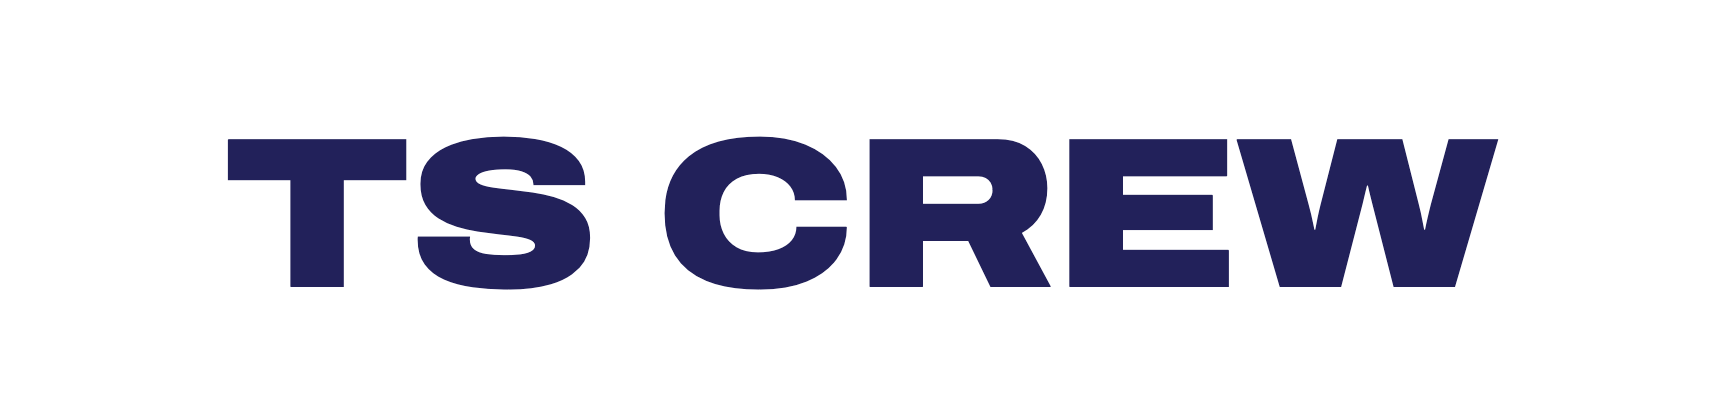
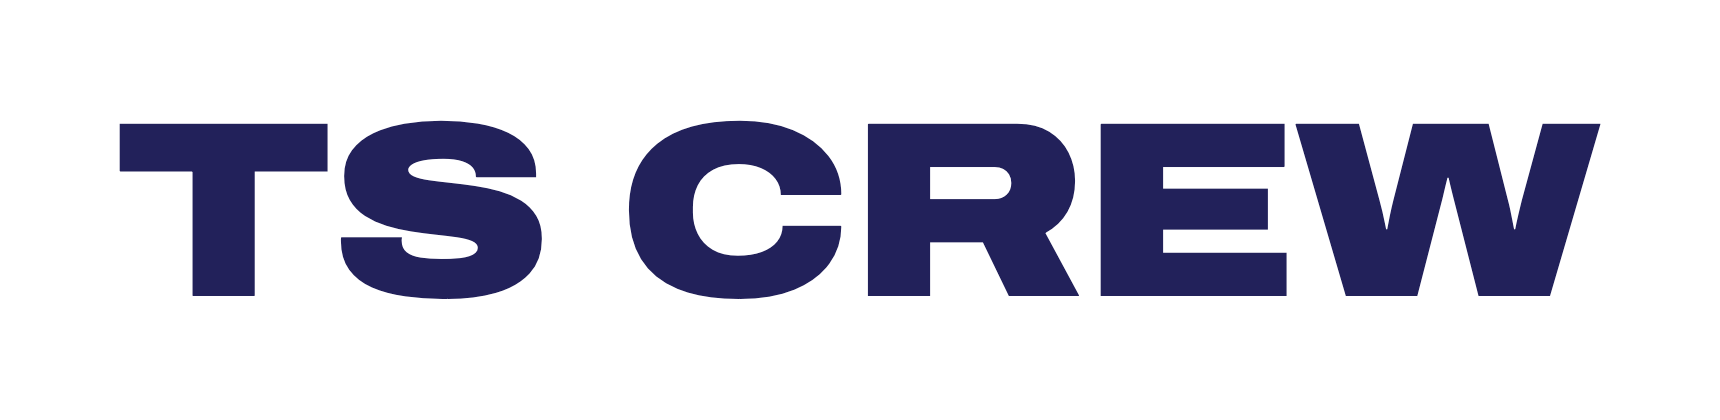
로고 글꼴 후보 A~K 비교표 한 장으로 통합, 후보 11종 개별 파일 같은 기준으로 재생성

Changed region(s): [[0.0616, 0.2786, 0.9552, 0.7119]]

diff --git a/docs/brand/wordmark-options-source.html b/docs/brand/wordmark-options-source.html
@@ -1,37 +1,33 @@
 <!doctype html><html><head><meta charset="utf-8">
-<link href="https://fonts.googleapis.com/css2?family=Michroma&family=Russo+One&family=Kanit:ital,wght@1,900&family=Lexend+Zetta:wght@800&family=Teko:wght@700&display=block" rel="stylesheet">
-<style>
-html, body { margin: 0; background: transparent; }
-body { width: 1720px; height: 420px; display: flex; align-items: center; justify-content: center; overflow: hidden; }
-.t { line-height: 1; color: #22215a; white-space: nowrap; font-size: 200px; visibility: hidden; }
-.G { font-family: Michroma; letter-spacing: -0.02em; }
-.H { font-family: "Russo One"; letter-spacing: 0; }
-.I { font-family: Kanit; font-weight: 900; font-style: italic; letter-spacing: -0.01em; }
-.J { font-family: "Lexend Zetta"; font-weight: 800; letter-spacing: -0.06em; }
-.K { font-family: Teko; font-weight: 700; letter-spacing: 0.01em; }
-</style></head><body>
+<link href="https://fonts.googleapis.com/css2?family=Archivo:wdth,wght@125,900&family=Big+Shoulders+Stencil+Display:wght@900&family=Unbounded:wght@800&family=Saira:ital,wdth,wght@1,125,800&family=Bricolage+Grotesque:opsz,wdth,wght@96,75,800&family=Syne:wght@800&family=Michroma&family=Russo+One&family=Kanit:ital,wght@1,900&family=Lexend+Zetta:wght@800&family=Teko:wght@700&display=block" rel="stylesheet">
+<style>html,body{margin:0;background:transparent}canvas{display:block}</style></head><body>
 <script>
-const f = new URLSearchParams(location.search).get('f');
-document.body.innerHTML = '<div class="t ' + f + '">TS CREW</div>';
-const t = document.querySelector('.t');
-document.fonts.ready.then(() => {
-  // 실제 잉크(글자 모양) 크기를 재서 폭 1480 / 높이 230 안에 맞추고 정확히 가운데로
-  const cs = getComputedStyle(t);
-  const ctx = document.createElement('canvas').getContext('2d');
-  const measure = (size) => {
-    ctx.font = cs.fontStyle + ' ' + cs.fontWeight + ' ' + size + 'px ' + cs.fontFamily;
-    ctx.letterSpacing = ((parseFloat(cs.letterSpacing) || 0) / 200 * size) + 'px';
-    const m = ctx.measureText('TS CREW');
-    return { w: m.actualBoundingBoxLeft + m.actualBoundingBoxRight, h: m.actualBoundingBoxAscent + m.actualBoundingBoxDescent, left: m.actualBoundingBoxLeft, asc: m.actualBoundingBoxAscent };
-  };
-  const base = measure(200);
-  const size = 200 * Math.min(1480 / base.w, 230 / base.h);
-  const m = measure(size);
-  document.body.innerHTML = '';
-  const c = document.createElement('canvas');
-  c.width = 1720; c.height = 420; document.body.appendChild(c);
-  const g = c.getContext('2d');
-  g.font = ctx.font; g.letterSpacing = ctx.letterSpacing; g.fillStyle = '#22215a';
-  g.fillText('TS CREW', (1720 - m.w) / 2 + m.left, (420 - m.h) / 2 + m.asc);
+// 글꼴별 설정: [family, weight, style, stretch, 자간(em)]
+const F = {
+  A: ['Archivo', 900, 'normal', 'expanded', -0.01],
+  B: ['Big Shoulders Stencil Display', 900, 'normal', 'normal', 0.02],
+  C: ['Unbounded', 800, 'normal', 'normal', -0.02],
+  D: ['Saira', 800, 'italic', 'expanded', -0.01],
+  E: ['Bricolage Grotesque', 800, 'normal', 'condensed', -0.02],
+  F: ['Syne', 800, 'normal', 'normal', -0.02],
+  G: ['Michroma', 400, 'normal', 'normal', -0.02],
+  H: ['Russo One', 400, 'normal', 'normal', 0],
+  I: ['Kanit', 900, 'italic', 'normal', -0.01],
+  J: ['Lexend Zetta', 800, 'normal', 'normal', -0.06],
+  K: ['Teko', 700, 'normal', 'normal', 0.01],
+};
+const key = new URLSearchParams(location.search).get('f');
+const [fam, wt, st, str, ls] = F[key];
+const W = 1720, H = 420, TEXT = 'TS CREW';
+const c = document.createElement('canvas'); c.width = W; c.height = H; document.body.appendChild(c);
+const g = c.getContext('2d');
+const setFont = (size) => { g.font = `${st} ${wt} ${size}px "${fam}"`; g.fontStretch = str; g.letterSpacing = (ls * size) + 'px'; };
+const ink = (size) => { setFont(size); const m = g.measureText(TEXT); return { w: m.actualBoundingBoxLeft + m.actualBoundingBoxRight, h: m.actualBoundingBoxAscent + m.actualBoundingBoxDescent, l: m.actualBoundingBoxLeft, a: m.actualBoundingBoxAscent }; };
+document.fonts.load(`${st} ${wt} 100px "${fam}"`).then(() => document.fonts.ready).then(() => {
+  const b = ink(200);
+  const size = 200 * Math.min(1480 / b.w, 230 / b.h);
+  const m = ink(size);
+  g.fillStyle = '#22215a';
+  g.fillText(TEXT, (W - m.w) / 2 + m.l, (H - m.h) / 2 + m.a);
 });
 </script></body></html>
